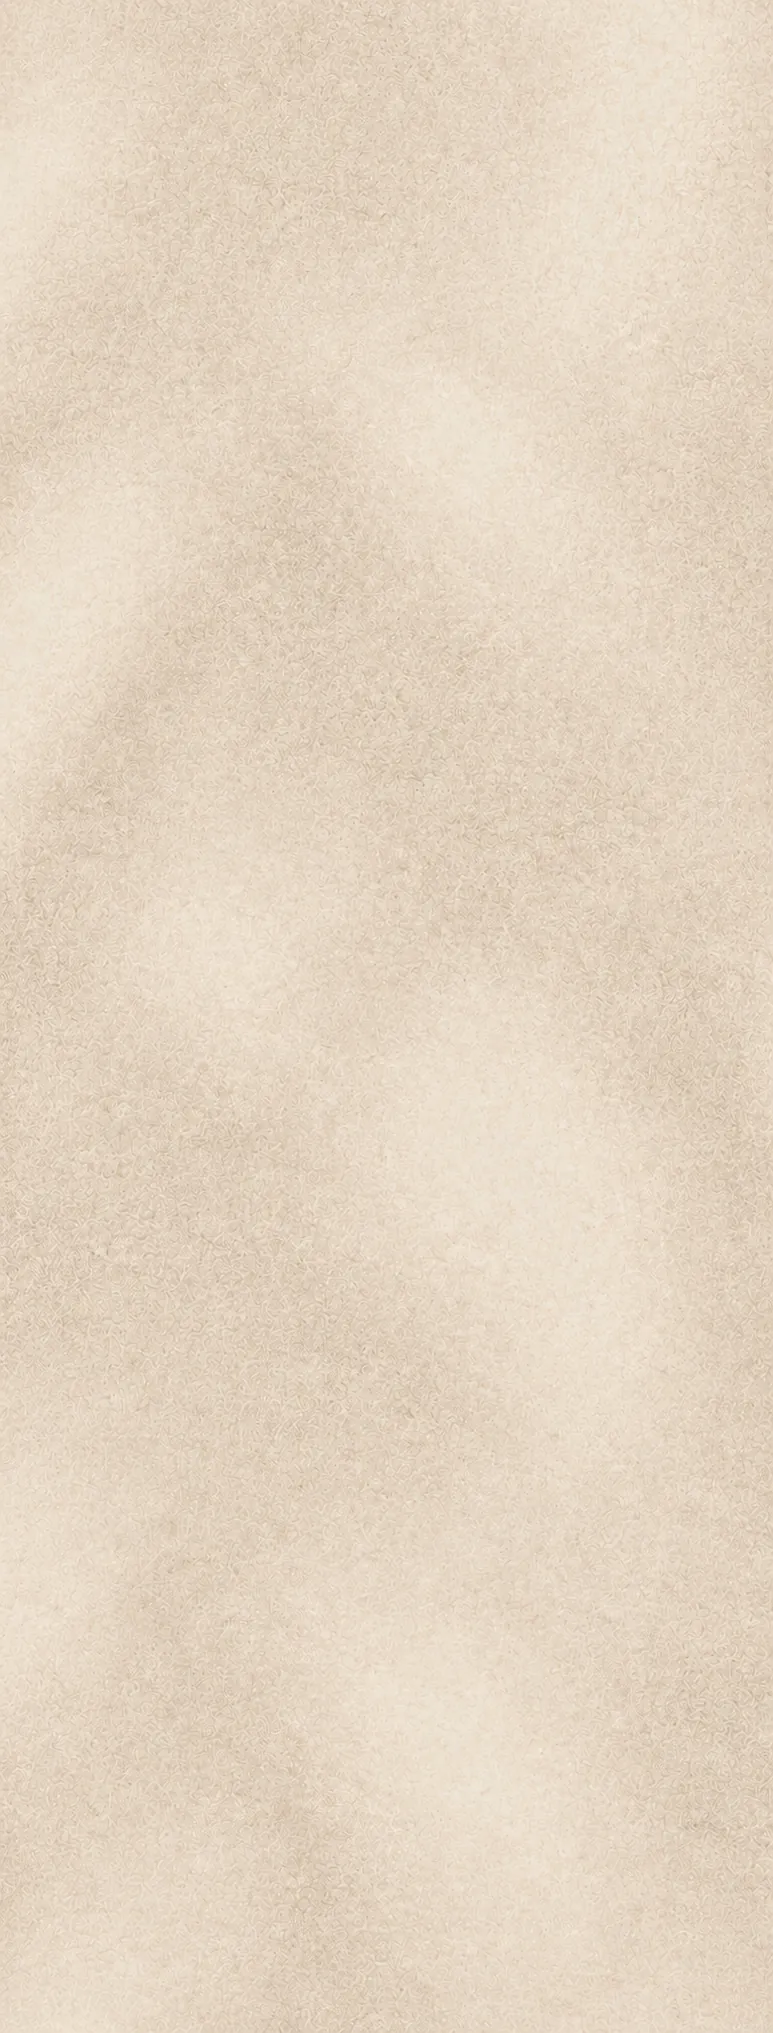
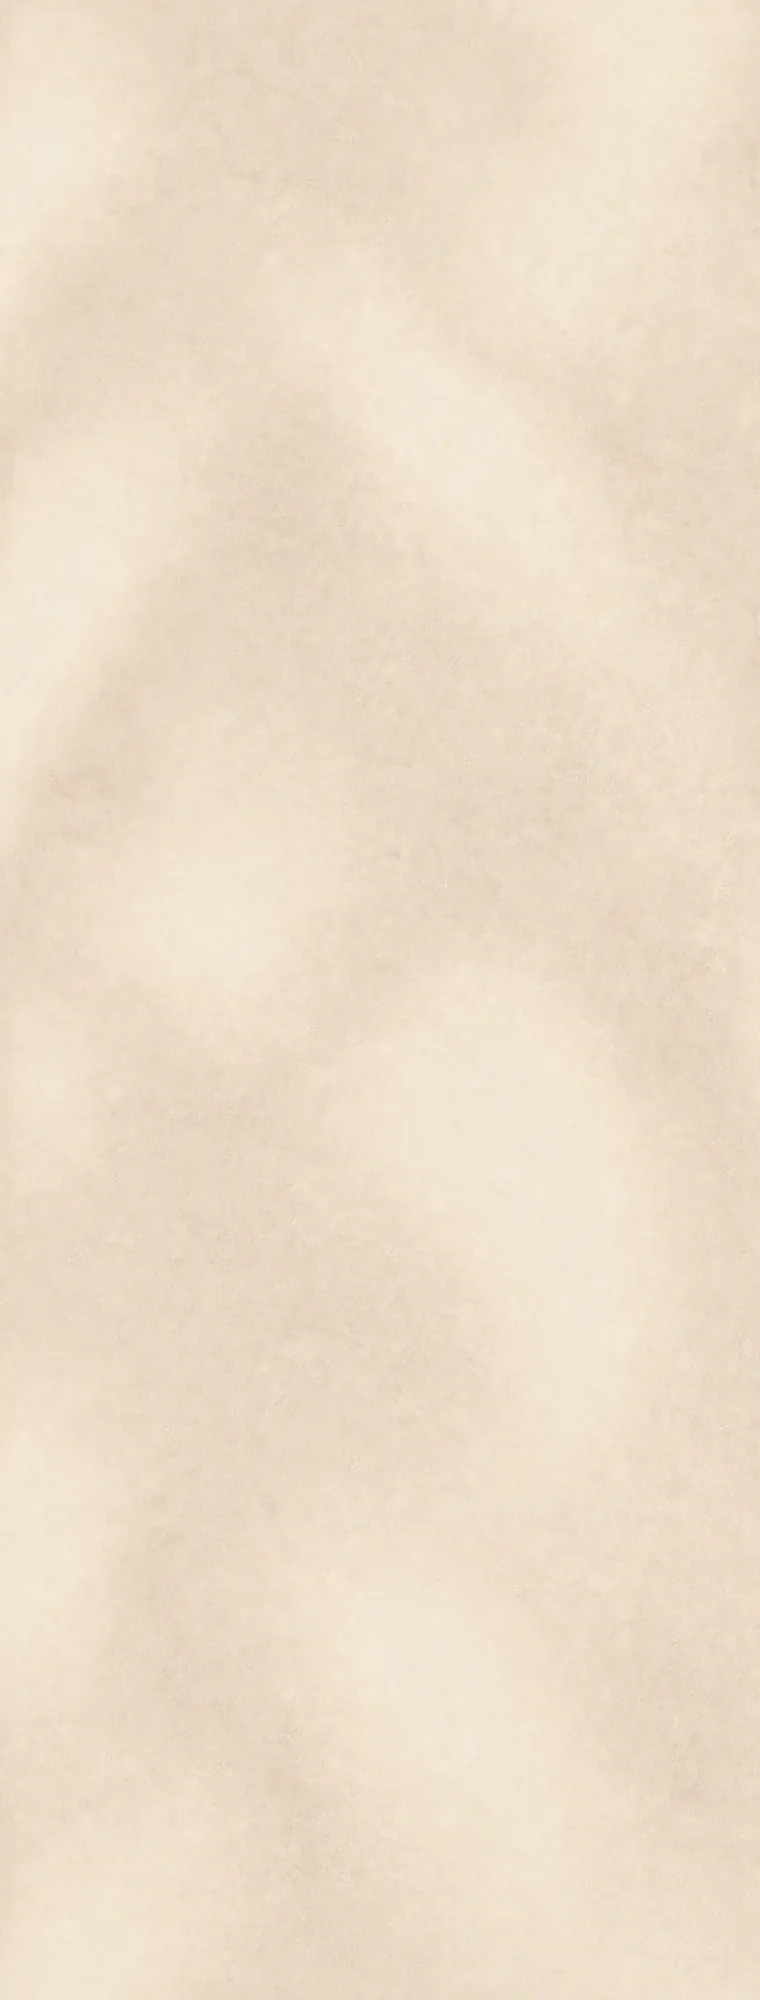
Pages : nouveau blanc cassé, Moi en orange Madéro, Le lieu en jaune
- Le fond commun vient du nouveau blanc cassé de Marie (sources/pages/
  fond.png), plus clair, adouci de la même façon.
- Moi prend l'orange de la carte Madéro (texture, voile et encre de sa
  fiche) ; Le lieu le jaune de Deep tissus, éclairci pour une encre
  noire. Les filets suivent.
- Les ronds de la barre ne prennent plus la couleur de la page.

Claude-Session: https://claude.ai/code/session_01Ag5QUuzeD211m7UujAwsoY

diff --git a/assets/css/v2.css b/assets/css/v2.css
@@ -377,7 +377,7 @@ body::after{
 .a-panneau .bulles::before{ opacity:1; }
 :root{ --fondu-bas:var(--card); }
 /* Toutes les pages ont le même fond : le fondu aussi. */
-.a-panneau{ --fondu-bas:#E5D5C1; --fondu-img:url(../img/pages/fond.webp); }
+.a-panneau{ --fondu-bas:#EBDCC7; --fondu-img:url(../img/pages/fond.webp); }
 
 /* Les noms au-dessus d'un panneau : un brun plus profond que le gris
    courant, qui tombait à 3,3:1 sur les textures. */
@@ -575,7 +575,7 @@ body::after{
    contenu. En fond CSS et non en `<img>` : la même image pour cinq
    panneaux, une seule fois dans la feuille de style. La couleur du
    panneau est sa médiane, ce qu'on voit le temps qu'elle arrive. */
-.panneau--texture, #massages{ background:#E5D5C1; }
+.panneau--texture, #massages{ background:#EBDCC7; }
 .panneau--texture::after, #massages::after{ display:none; }
 .texture-fond{
   position:fixed; inset:0; z-index:0; pointer-events:none;
@@ -703,26 +703,26 @@ body::after{
 /* --- Les touches ---
    La couleur de chaque page ne tient plus son fond : elle revient en
    petites surfaces sur le blanc cassé — l'étiquette de Moi, les horaires
-   du Lieu, l'attente des Avis, les boutons du Rendez-vous — et dans le
-   rond de sa bulle. Même recette que les encadrés de prix des fiches : une
-   bande de la texture de la page, sous un voile de sa couleur dosé au
-   pixel pour que l'encre tienne 4,6:1 au pire. Moi n'en a pas besoin. Les
-   filets (parcours, liste du Lieu) prennent un ton moyen de la page.
-
-   Posées sur le panneau *et* sur sa bulle, qui vit hors du panneau. */
-.bulle[data-ouvre="moi"], #moi{
-  --touche:url(../img/pages/moi-touche.webp); --touche-fond:#E3A77F;
-  --touche-voile:transparent; --touche-encre:#1E1814; --touche-trait:#C8764C;
+   du Lieu, l'attente des Avis, les boutons du Rendez-vous. Même recette
+   que les encadrés de prix des fiches : une texture, sous un voile dosé au
+   pixel pour que l'encre tienne 4,6:1 au pire. Moi prend l'orange de la
+   carte Madéro, avec le voile et l'encre de sa fiche ; Le lieu le jaune
+   de Deep tissus, éclairci pour une encre noire. Les filets (parcours,
+   liste du Lieu) prennent un ton moyen de la même couleur. Les ronds de
+   la barre, eux, restent crème. */
+#moi{
+  --touche:url(../img/cartes/madero-texture.webp); --touche-fond:#BF4E24;
+  --touche-voile:rgba(140,48,16,.73); --touche-encre:#FFFFFF; --touche-trait:#D9733F;
 }
-.bulle[data-ouvre="lieu"], #lieu{
-  --touche:url(../img/pages/lieu-touche.webp); --touche-fond:#AAB690;
-  --touche-voile:rgba(236,240,228,.06); --touche-encre:#1E1814; --touche-trait:#93A276;
+#lieu{
+  --touche:url(../img/cartes/deep-tissus-texture.webp); --touche-fond:#CBA450;
+  --touche-voile:rgba(248,214,120,.5); --touche-encre:#1E1814; --touche-trait:#C9A24A;
 }
-.bulle[data-ouvre="avis"], #avis{
+#avis{
   --touche:url(../img/pages/avis-touche.webp); --touche-fond:#6E4A10;
   --touche-voile:rgba(70,44,6,.66); --touche-encre:#FFFFFF;
 }
-.bulle[data-ouvre="rdv"], #rdv{
+#rdv{
   --touche:url(../img/pages/rdv-touche.webp); --touche-fond:#56021A;
   --touche-voile:rgba(60,4,18,.06); --touche-encre:#FFFFFF;
 }
@@ -739,6 +739,10 @@ body::after{
 }
 .panneau--clair .moi__reserve,
 .panneau--clair .etiquette{ padding:.85rem 1.2rem; }
+/* Les deux lignes de l'étiquette prennent l'encre de la touche : la
+   première avait la teinte de la rubrique, la seconde le gris doux. */
+.panneau--clair .moi__reserve > *,
+.panneau--clair .etiquette > *{ color:inherit; }
 .panneau--clair .attente-avis{ padding:1.1rem 1.3rem; border-radius:16px; }
 /* Au survol, un voile sombre et non clair : il ne peut qu'ajouter au
    contraste du texte blanc. */
@@ -752,17 +756,6 @@ body::after{
 .panneau--clair .parcours::before{ background:var(--touche-trait); }
 #lieu .infos li,
 #lieu .infos li:last-child{ border-color:var(--touche-trait); }
-/* Le rond de la rubrique ouverte, dans la couleur de la page. */
-.bulle[aria-expanded="true"][data-ouvre="moi"] .bulle__rond,
-.bulle[aria-expanded="true"][data-ouvre="lieu"] .bulle__rond,
-.bulle[aria-expanded="true"][data-ouvre="avis"] .bulle__rond,
-.bulle[aria-expanded="true"][data-ouvre="rdv"] .bulle__rond{
-  background:
-    linear-gradient(var(--touche-voile), var(--touche-voile)),
-    var(--touche) center / cover no-repeat,
-    var(--touche-fond);
-  color:var(--touche-encre);
-}
 
 /* --- L'entrée du contenu ---
    Courte et d'un bloc. Le contenu a été révélé un moment ligne à ligne :

diff --git a/tools-textures.py b/tools-textures.py
@@ -5,8 +5,8 @@ Les sources sont dans `sources/pages/`, créées par Marie au format
 téléphone (774 × 2033). `orange.png` n'a pas de page : l'orange reste la
 couleur de la seule carte Madéro.
 
-**Le fond.** Toutes les pages ont le même : le blanc cassé de Massages
-(`massages.png`), adouci. La texture d'origine a de grandes taches de
+**Le fond.** Toutes les pages ont le même : le blanc cassé de Marie
+(`fond.png`), adouci. La texture d'origine a de grandes taches de
 lumière ; derrière du texte, et à côté des bandeaux et des encadrés qui
 ont déjà leur grain, elles faisaient trop. On sépare l'image en deux :
 les taches (un flou large) et le grain (ce que le flou retire). Les taches
@@ -14,9 +14,10 @@ sont ramenées à `ADOUCI` de leur écart à la teinte médiane, le grain est
 gardé entier — un blanc cassé vivant, pas une photo de papier.
 
 **Les touches.** La couleur de chaque page ne tient plus le fond : elle
-revient en petites surfaces — l'étiquette de Moi, les horaires du Lieu,
-l'attente des Avis, les boutons du Rendez-vous. Pour elles, une bande de
-la texture de la page, en 2:1, comme les encadrés de prix des fiches.
+revient en petites surfaces. Moi et Le lieu empruntent la texture d'une
+carte (l'orange de Madéro, le jaune de Deep tissus), déjà produite par
+`tools-cartes-images.py`. Avis et Rendez-vous gardent la leur : une bande
+de leur texture de page, en 2:1, comme les encadrés de prix des fiches.
 
     python3 tools-textures.py
 """
@@ -29,13 +30,13 @@ ROOT    = pathlib.Path(__file__).parent
 SOURCES = ROOT / 'sources/pages'
 DEST    = ROOT / 'assets/img/pages'
 
-FOND   = 'massages'
+FOND   = 'fond'
 ADOUCI = .3
 # Rayon du flou qui sépare les taches du grain : au-dessus du grain (quelques
 # pixels), en dessous des taches (une centaine).
 RAYON  = 30
 
-TOUCHES = ['moi', 'lieu', 'avis', 'rdv']
+TOUCHES = ['avis', 'rdv']
 TOUCHE_RAPPORT = 2
 TOUCHE_LARGEUR = 800
 
